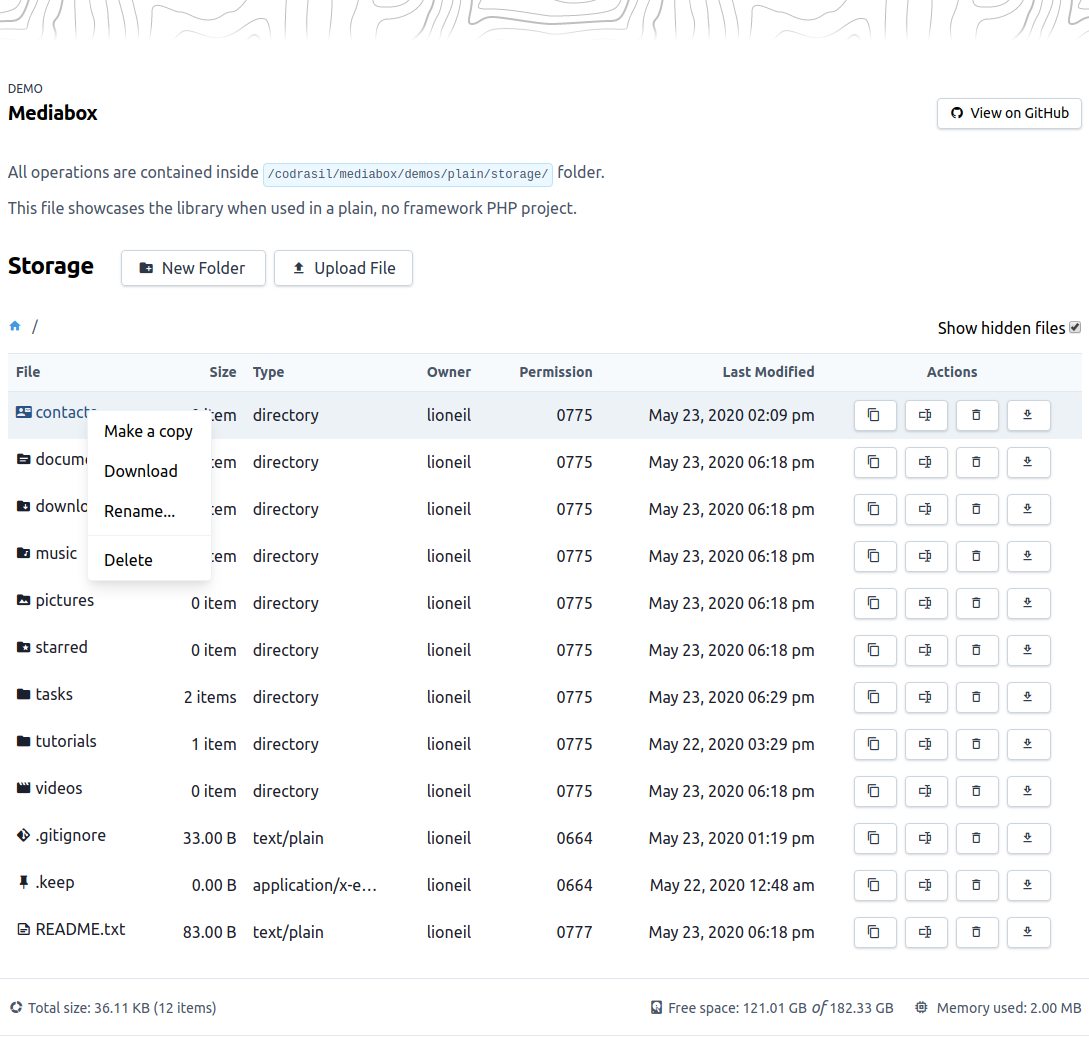
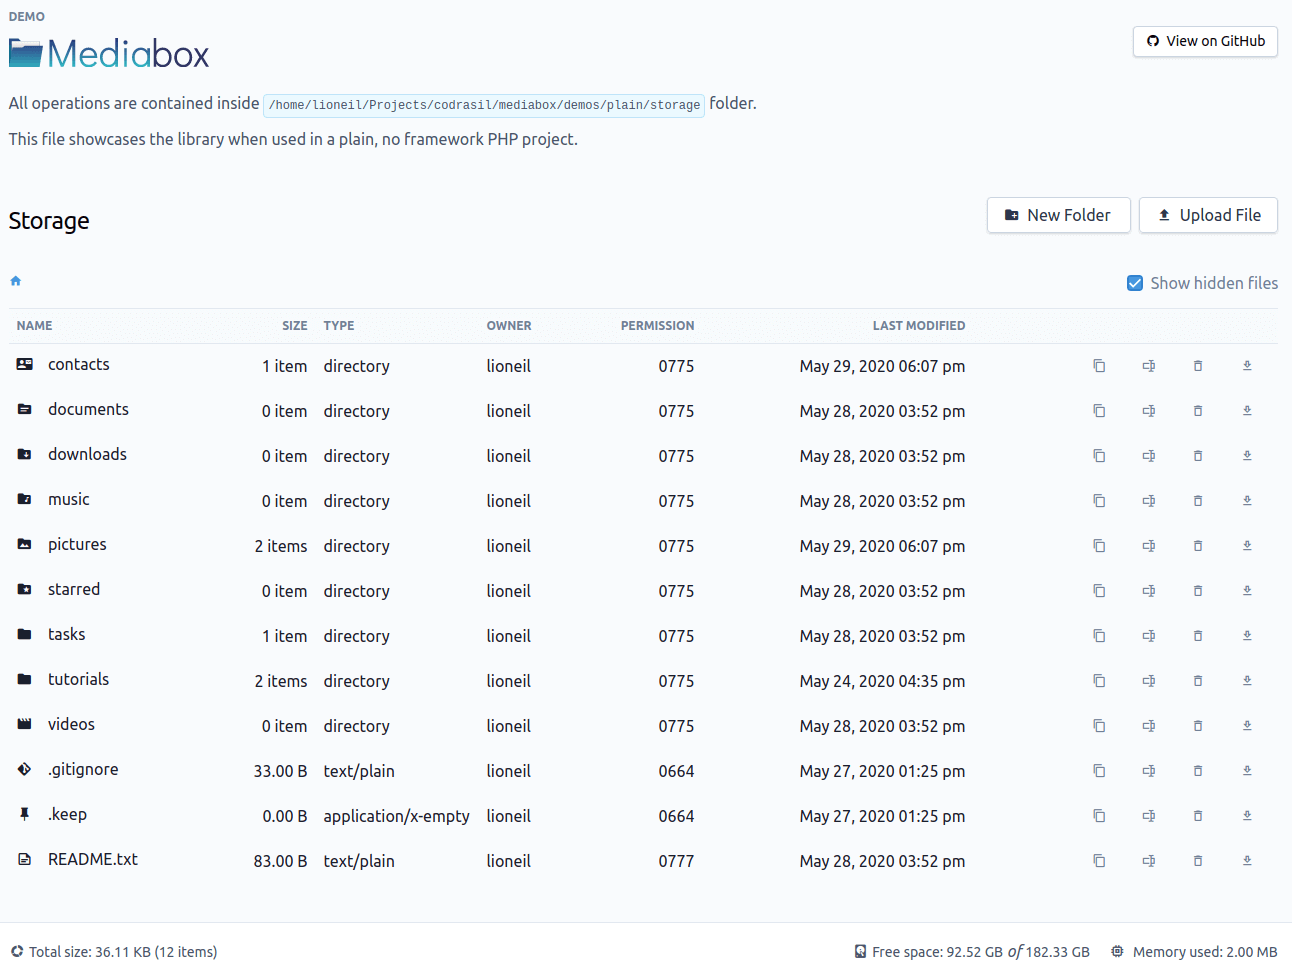
Update screenshot file

diff --git a/demos/plain/partials/head.php b/demos/plain/partials/head.php
@@ -11,7 +11,7 @@
     <link rel="stylesheet" href="https://cdnjs.cloudflare.com/ajax/libs/MaterialDesign-Webfont/5.2.45/css/materialdesignicons.min.css">
     <link rel="stylesheet" href="style.css">
 </head>
-<body class="overflow-x-hidden" oncontextmenu="return false">
+<body class="overflow-x-hidden">
     <div class="flex mb-4 mt-4">
         <div class="w-4/5 md:w-2/3 mx-auto my-6">
             <h5 class="text-gray-600 font-bold mb-0 text-xs uppercase">Demo</h5>
